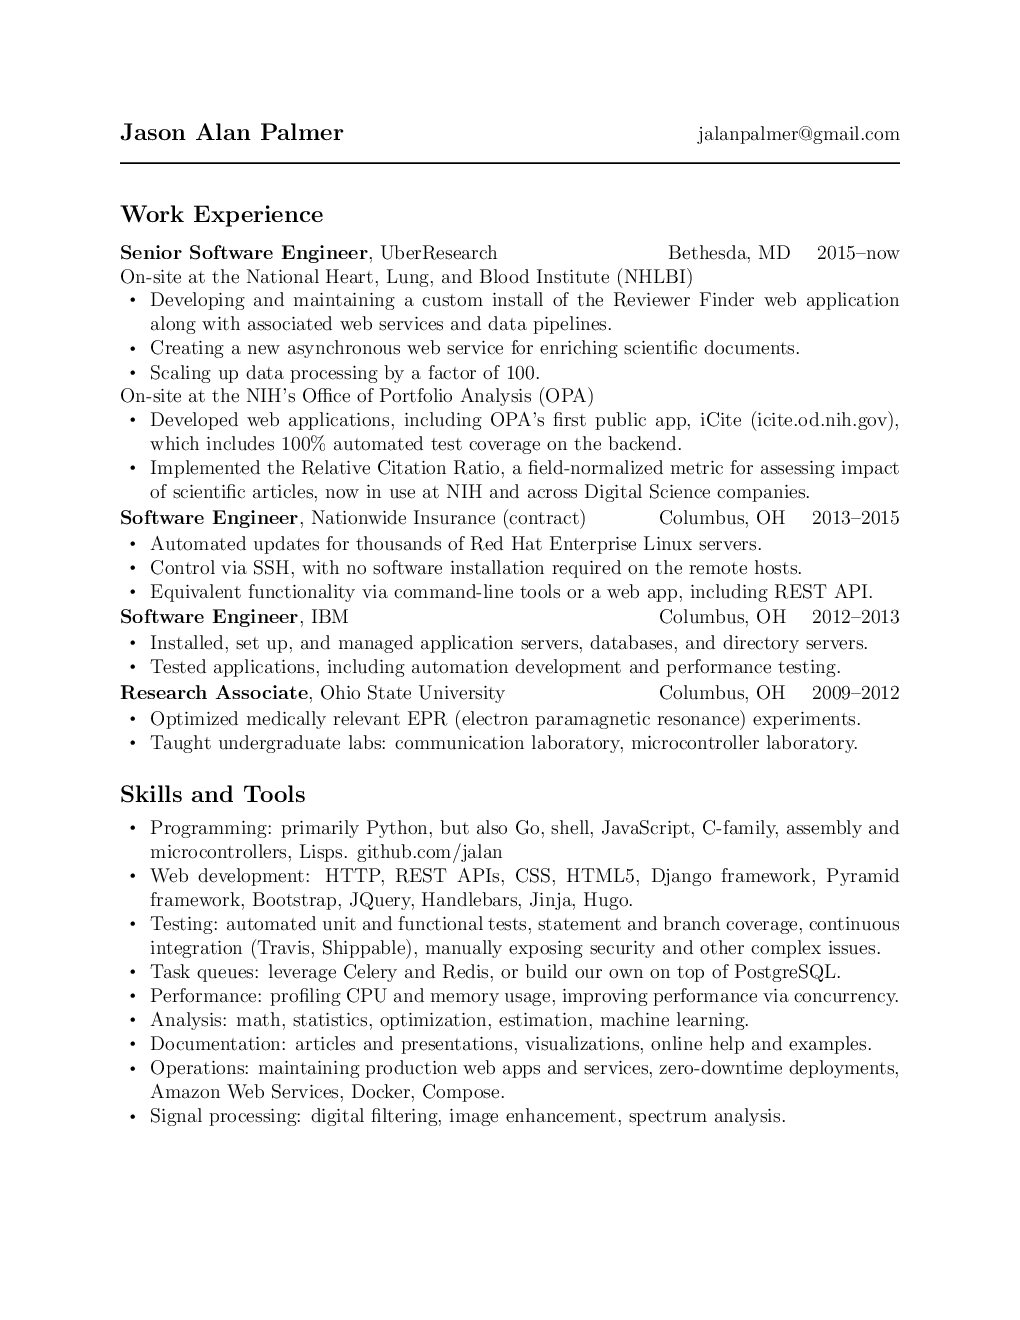
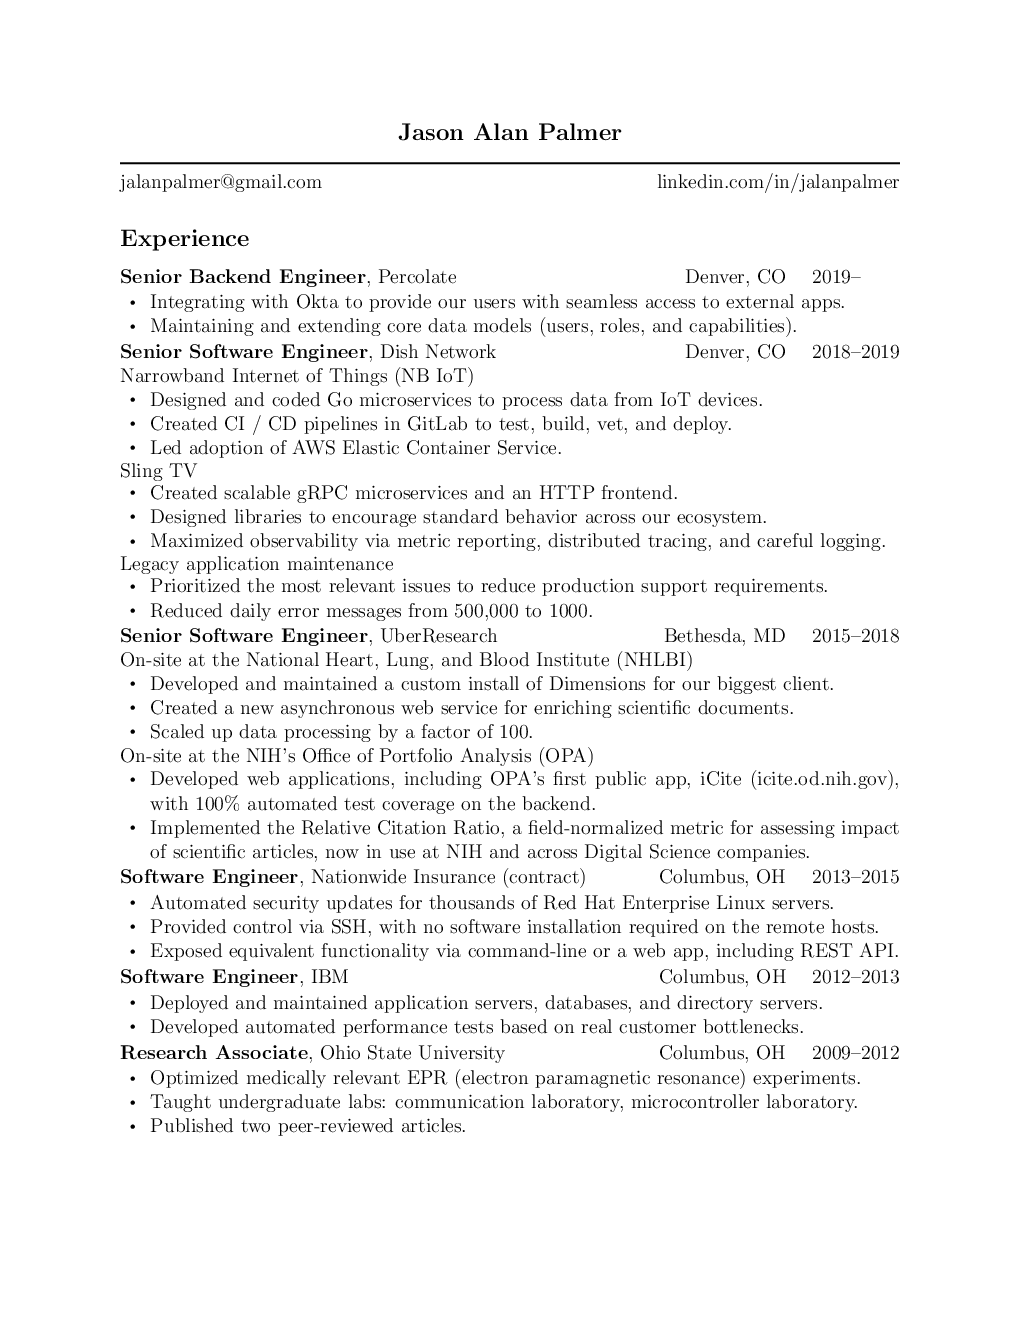
Update for 2019

Changed region(s): [[0.1216, 0.0932, 0.8814, 0.8697], [0.6382, 0.0932, 0.8814, 0.1553], [0.3951, 0.0932, 0.6078, 0.1242]]

diff --git a/resume.tex b/resume.tex
@@ -41,24 +41,58 @@
 \begin{document}
 
 % Just name and email, since this is online
-\textbf{\large Jason Alan Palmer} \hfill \href{mailto:jalanpalmer@gmail.com}{jalanpalmer@gmail.com}
+\centerline{\textbf{\large Jason Alan Palmer}}
 
 \rule{\textwidth}{1pt}
 
-\subsection*{Work Experience}
+\href{mailto:jalanpalmer@gmail.com}{jalanpalmer@gmail.com}
+\hfill
+\href{https://www.linkedin.com/in/jalanpalmer}{linkedin.com/in/jalanpalmer}
+
+
+\subsection*{Experience}
 
 \begin{jobhead}
-\textbf{Senior Software Engineer}, UberResearch && Bethesda, MD ~~ 2015--now \\
+\textbf{Senior Backend Engineer}, Percolate && Denver, CO ~~ 2019--~~~~~~ \\
+\end{jobhead}
+\begin{bullets}
+Integrating with Okta to provide our users with seamless access to external apps. \\
+Maintaining and extending core data models (users, roles, and capabilities). \\
+\end{bullets}
+
+\begin{jobhead}
+\textbf{Senior Software Engineer}, Dish Network && Denver, CO ~~ 2018--2019 \\
+\end{jobhead}
+Narrowband Internet of Things (NB IoT) \\
+\begin{bullets}
+Designed and coded Go microservices to process data from IoT devices. \\
+Created CI / CD pipelines in GitLab to test, build, vet, and deploy. \\
+Led adoption of AWS Elastic Container Service. \\
+\end{bullets}
+Sling TV \\
+\begin{bullets}
+Created scalable gRPC microservices and an HTTP frontend. \\
+Designed libraries to encourage standard behavior across our ecosystem. \\
+Maximized observability via metric reporting, distributed tracing, and careful logging. \\
+\end{bullets}
+Legacy application maintenance \\
+\begin{bullets}
+Prioritized the most relevant issues to reduce production support requirements. \\
+Reduced daily error messages from 500,000 to 1000. \\
+\end{bullets}
+
+\begin{jobhead}
+\textbf{Senior Software Engineer}, UberResearch && Bethesda, MD ~~ 2015--2018 \\
 \end{jobhead}
 On-site at the National Heart, Lung, and Blood Institute (NHLBI) \\
 \begin{bullets}
-Developing and maintaining a custom install of the Reviewer Finder web application along with associated web services and data pipelines. \\
-Creating a new asynchronous web service for enriching scientific documents. \\
-Scaling up data processing by a factor of 100. \\
+Developed and maintained a custom install of Dimensions for our biggest client. \\
+Created a new asynchronous web service for enriching scientific documents. \\
+Scaled up data processing by a factor of 100. \\
 \end{bullets}
 On-site at the NIH's Office of Portfolio Analysis (OPA) \\
 \begin{bullets}
-Developed web applications, including OPA's first public app, iCite (\href{https://icite.od.nih.gov}{icite.od.nih.gov}), which includes 100\% automated test coverage on the backend. \\
+Developed web applications, including OPA's first public app, iCite (\href{https://icite.od.nih.gov}{icite.od.nih.gov}), with 100\% automated test coverage on the backend. \\
 Implemented the Relative Citation Ratio, a field-normalized metric for assessing impact of scientific articles, now in use at NIH and across Digital Science companies. \\
 \end{bullets}
 
@@ -66,17 +100,17 @@ Implemented the Relative Citation Ratio, a field-normalized metric for assessing
 \textbf{Software Engineer}, Nationwide Insurance (contract) && Columbus, OH ~~ 2013--2015 \\
 \end{jobhead}
 \begin{bullets}
-Automated updates for thousands of Red Hat Enterprise Linux servers. \\
-Control via SSH, with no software installation required on the remote hosts. \\
-Equivalent functionality via command-line tools or a web app, including REST API. \\
+Automated security updates for thousands of Red Hat Enterprise Linux servers. \\
+Provided control via SSH, with no software installation required on the remote hosts. \\
+Exposed equivalent functionality via command-line or a web app, including REST API. \\
 \end{bullets}
 
 \begin{jobhead}
 \textbf{Software Engineer}, IBM && Columbus, OH ~~ 2012--2013 \\
 \end{jobhead}
 \begin{bullets}
-Installed, set up, and managed application servers, databases, and directory servers. \\
-Tested applications, including automation development and performance testing. \\
+Deployed and maintained application servers, databases, and directory servers. \\
+Developed automated performance tests based on real customer bottlenecks. \\
 \end{bullets}
 
 \begin{jobhead}
@@ -85,70 +119,57 @@ Tested applications, including automation development and performance testing. \
 \begin{bullets}
 Optimized medically relevant EPR (electron paramagnetic resonance) experiments. \\
 Taught undergraduate labs: communication laboratory, microcontroller laboratory. \\
+Published two peer-reviewed articles. \\
 \end{bullets}
 
-\subsection*{Skills and Tools}
+\pagebreak
+
+\begin{jobhead}
+\textbf{Software Engineer}, Chemical Abstracts Service && Columbus, OH ~~ 2007--2009 \\
+\end{jobhead}
 \begin{bullets}
-Programming: primarily Python, but also Go, shell, JavaScript, C-family, assembly and microcontrollers, Lisps. \href{https://github.com/jalan}{github.com/jalan} \\
-Web development: HTTP, REST APIs, CSS, HTML5, Django framework, Pyramid framework, Bootstrap, JQuery, Handlebars, Jinja, Hugo. \\
-Testing: automated unit and functional tests, statement and branch coverage, continuous integration (Travis, Shippable), manually exposing security and other complex issues. \\
-Task queues: leverage Celery and Redis, or build our own on top of PostgreSQL. \\
-Performance: profiling CPU and memory usage, improving performance via concurrency. \\
-Analysis: math, statistics, optimization, estimation, machine learning. \\
-Documentation: articles and presentations, visualizations, online help and examples. \\
-Operations: maintaining production web apps and services, zero-downtime deployments, Amazon Web Services, Docker, Compose. \\
-Signal processing: digital filtering, image enhancement, spectrum analysis. \\
+Disassembled with OllyDbg to discover a password recovery vulnerability. \\
+Intelligently converted JPEG spectrums to PNG for a 93\% size reduction. \\
+\end{bullets}
+
+\subsection*{Skills}
+\begin{bullets}
+Primary fluency in Go and Python, also experienced with C-family, assembly, shell scripts, JavaScript, Lisps. \\
+Software engineering, start to finish: gather and analyze requirements, architect a system, design and code its components, test thoroughly, document, and build an automated pipeline to deploy every commit. \\
+Specialize in backend development, but work across domains: command-line tools, text and numerical processing, front-end. \\
+Leadership: help less experienced engineers make progress, constantly refine and share best practices in multi-team meetings, learn every day. \\
+Messaging and queueing: leverage Celery and Redis, RabbitMQ, Kafka, or build our own queues in PostgreSQL. \\
+Performance: profile CPU and memory usage, add concurrency without sacrificing safety or clarity of code, optimize database queries, add caching layers. \\
+Code review: provide rapid, constructive feedback to team members; catch issues early, when they are easiest to address; provoke thoughtful discussions that we all learn from. \\
+APIs: create HTTP and gRPC APIs that are pleasant to use, and design libraries that encourage standards and speed development on new projects. \\
+Operations: maintain services, set up monitoring and alerting, perform thorough postmortems after production outages. \\
+CI / CD: automate builds, unit tests, static analysis, and integration tests. Deploy with no manual steps. \\ 
+Analysis: math, statistics, optimization, estimation, machine learning. Dig deep into new problem spaces and get up to speed quickly. \\
+Documentation: write articles, presentations, online help, and examples. \\
+Unix philosophy: favor composable and minimalist tools over large programs, removing nonessential features over adding more, and simplicity over perfection. \\
 \end{bullets}
 
 \subsection*{Education}
 \begin{tabularx}{\textwidth}{ @{\bullet} l X c X r @{} }
-MS, Electrical and Computer Engineering && Ohio State University && 2012 \\
-BS, Electrical and Computer Engineering && Ohio State University && 2009 \\
+MS, Electrical and Computer Engineering && Ohio State University \\
+BS, Electrical and Computer Engineering && Ohio State University \\
 \end{tabularx}
-\newline \\
-Education includes graduate-level coursework in \\
-\begin{bullets}
-Electrical engineering (image processing, communications, random signal analysis) \\
-Computer engineering (digital logic, interfacing and protocols) \\
-Computer science (numerical methods, machine learning, pattern recognition) \\
-Mathematics (vector spaces) \\
-Statistics (applied regression analysis) \\
-Linguistics (mathematical methods) \\
-\end{bullets}
-
-\subsection*{Publications}
-\begin{bullets}
-``Dual-scan acquisition for accelerated continuous-wave EPR oximetry.''
-Jason Palmer, Lee C Potter, David H Johnson, Jay L Zweier, Rizwan Ahmad.
-{\it Journal of Magnetic Resonance}, 2012. \\
-``Optimization of magnetic field sweep and field modulation amplitude for continuous-wave EPR oximetry.''
-Jason Palmer, Lee C Potter, Rizwan Ahmad.
-{\it Journal of Magnetic Resonance}, 2011. \\
-\end{bullets}
 
 \subsection*{Community}
-\begin{tabularx}{\textwidth}{ @{\bullet} X l @{} }
-Rebuilding Together Central Ohio                                                   & \multicolumn{1}{r @{}}{2013} \\
-Maintenance of the IPS Lab website, \href{http://ece.osu.edu/ips}{ece.osu.edu/ips} & 2010--2012 \\
-IEEE                                                                               & 2007--now  \\
-Project Gutenberg Distributed Proofreaders                                         & 2007--2008 \\
-Contributor to open-source projects                                                & 2007--now  \\
-\end{tabularx}
-\newline \\
-Contributions include
-	Can I use,
+\begin{bullets}
+Open source: when I find an issue, I investigate and try to fix it.
+This has led to contributions to
+	caniuse.com,
 	Django REST framework,
 	GNU Octave,
 	go-sdl2,
 	poppler,
 	pyramid\_exclog,
-	Wine,
-and various personal projects.
-
-\subsection*{Honors}
-\begin{tabularx}{\textwidth}{ @{\bullet} X l @{} }
-Ohio State University Fellow & 2009 \\
-National Merit Scholar       & 2005 \\
-\end{tabularx}
+	and
+	Wine.
+It is a great learning experience and the best way to give back to a community we all benefit from.
+I am also the author of a Python library with over 10,000 downloads per month. See \href{https://github.com/jalan}{github.com/jalan} \\
+Attend local programming meetups and major conferences such as GopherCon. \\
+\end{bullets}
 
 \end{document}
